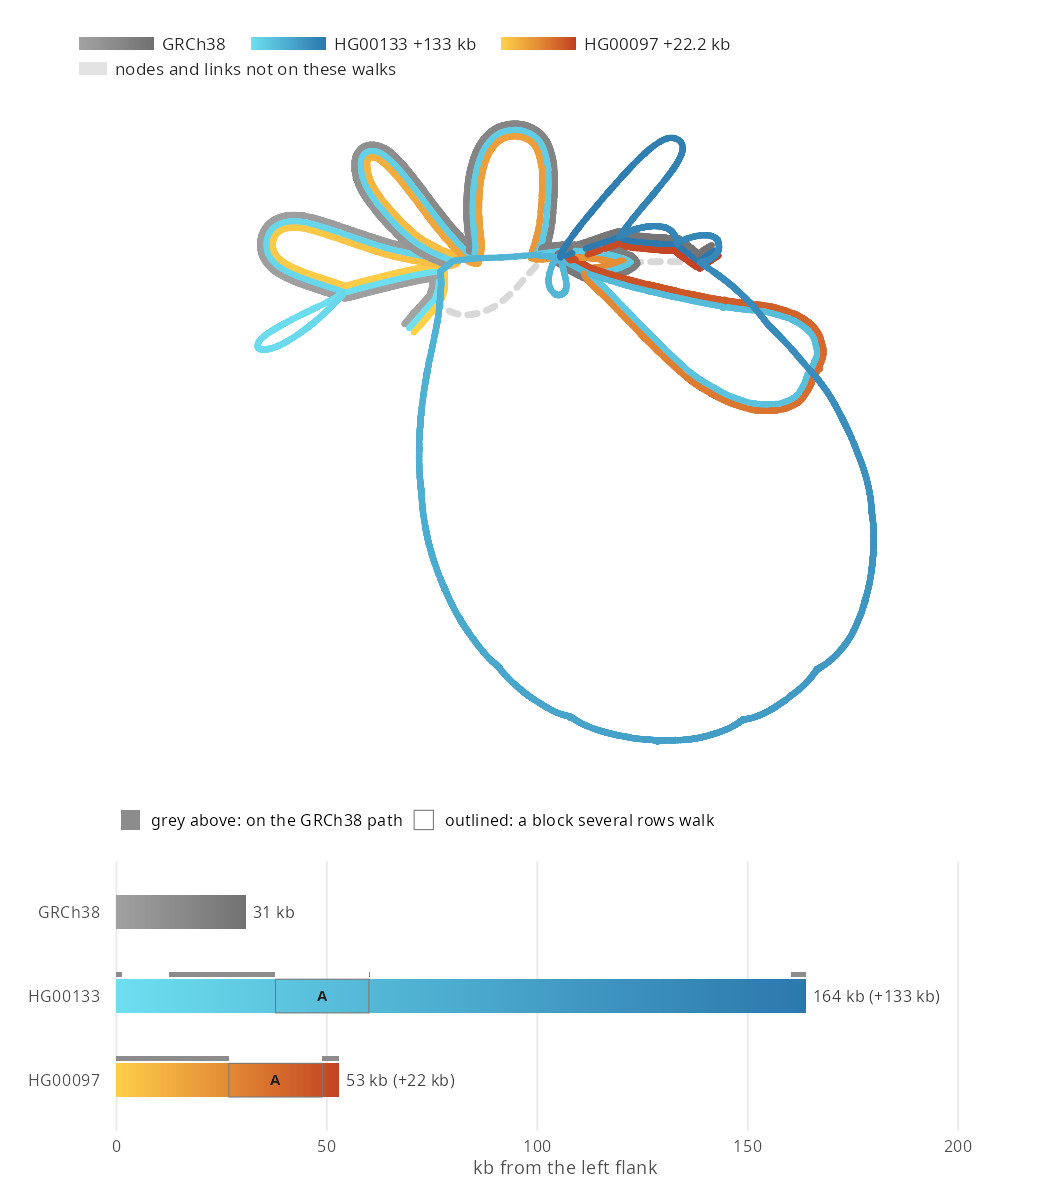
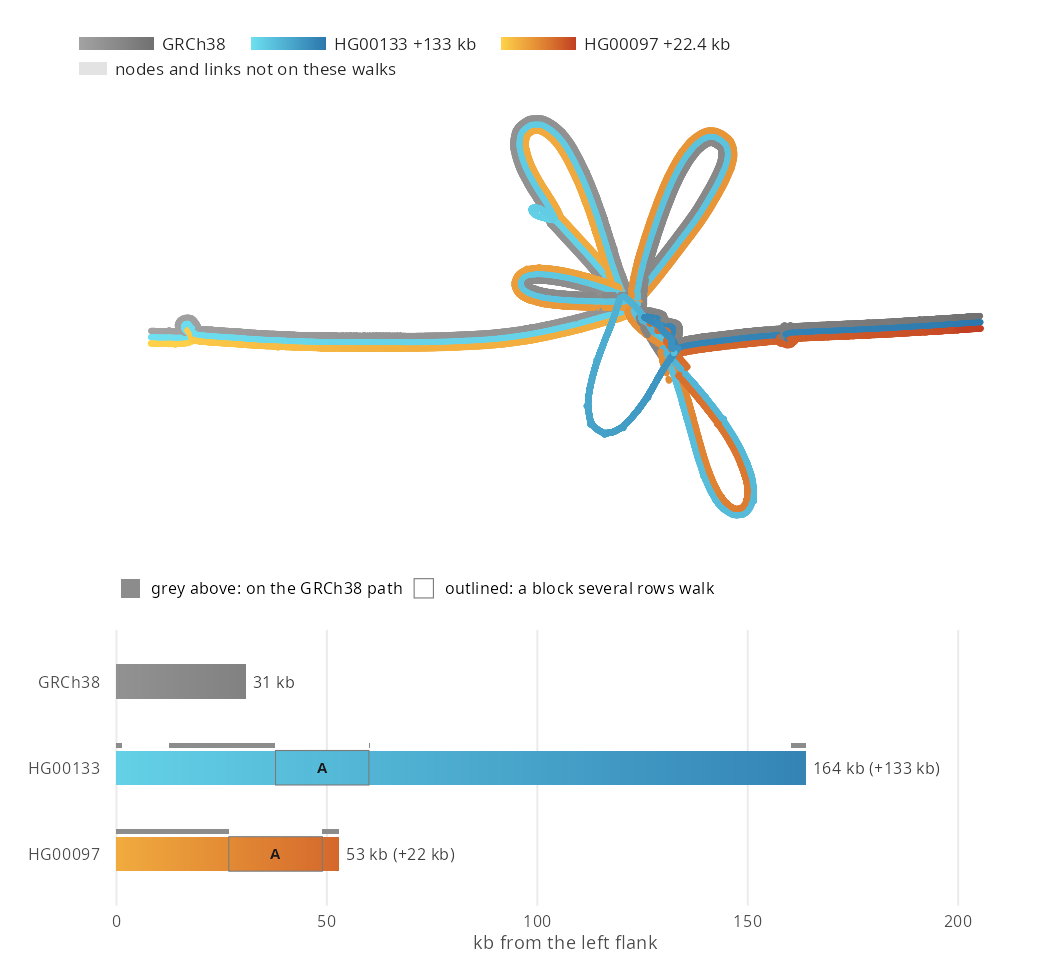
Draw kiv2_overlay with 30 kb flanks and compressed node lengths
The 1 kb default flank left GRCh38 a stub, so the figure didn't show where
straight reference meets the array, and HG00133's 133 kb of extra copies
drew as one loop filling most of the panel. context = 30000 and
bubbleSpread = "compress" fix both; the walk rows still carry the lengths.

Document bubbleSpread in bandage_layout() and both arguments in the
layout-options vignette.

diff --git a/README.md b/README.md
@@ -78,7 +78,7 @@ kinds of index, exporting a region as GFA, and building a region's syng graph.
 <!-- gallery -->
 <table>
 <tr><td width="25%"><a href="docs/gallery.md#cfhr3-and-cfhr1-deleted-in-one-haplotype"><img src="gallery/cfh_overlay.png" alt="Force-directed CFH locus with GRCh38, HG00097 and HG02055 lifted together, each shaded along its own length: GRCh38 grey, HG00097 cyan to blue and HG02055 pink to plum. GRCh38 and HG00097 run the loop through CFHR3 and CFHR1, and HG02055 alone takes the dashed deletion edge under it. Walk rows below, each on its walk's ramp, give the lengths, GRCh38 and HG00097 260 kb and HG02055 176 kb, and the ribbons from HG00097 down to HG02055 break across the 85 kb HG02055 lacks" width="100%"></a><br>CFHR3 and CFHR1 deleted in one haplotype</td><td width="25%"><a href="docs/gallery.md#kiv-2-copy-number-as-walk-rows"><img src="gallery/kiv2_rows.png" alt="Walk rows at KIV-2 on a bp-from-flank axis: between the flanking reference nodes GRCh38 spans 31 kb and HG00133#2 164 kb, and the extra copies, on non-reference nodes, fall into three blocks: A, 68 kb walked by HG02055#1 and HG00133#2; B, 22 kb walked by four haplotypes; and C, 5.5 kb walked by two" width="100%"></a><br>KIV-2 copy number as walk rows</td><td width="25%"><a href="docs/gallery.md#amylase-haplotypes-from-146-to-475-kb"><img src="gallery/amylase_rows.png" alt="Walk rows over the salivary amylase genes for GRCh38 and seven haplotypes, each bar coloured by the GRCh38 position it covers: against GRCh38's 240 kb the haplotypes span 146 kb to 475 kb. HG00128#1 and HG002#1 walk the non-reference block A twice, CHM13 and HG00097#2 once, HG00099#1 and HG00097#1 walk block C in its place, and HG00097#1 has a 19 kb stretch the graph lacks, drawn as an open box" width="100%"></a><br>Amylase haplotypes from 146 to 475 kb</td><td width="25%"><a href="docs/gallery.md#cyp2d6-deletion-as-an-arch-over-the-gene"><img src="gallery/cyp2d6_stress.png" alt="Stress layout of CYP2D6 from the hosted index, GRCh38 drawn straight and coloured by position from NDUFA6-DT to CYP2D7, exons outlined in gold: a dashed arch spans CYP2D6, the route of haplotypes that skip the gene, and non-reference sequence hangs in charcoal loops above and below" width="100%"></a><br>CYP2D6 deletion as an arch over the gene</td></tr>
-<tr><td width="25%"><a href="docs/gallery.md#kiv-2-expansions-as-extra-loops"><img src="gallery/kiv2_overlay.png" alt="Force-directed KIV-2 array with GRCh38, HG00133 and HG00097 lifted together, each shaded along its own length from light to mid-tone: GRCh38 grey, HG00133 cyan to blue, 133 kb longer, and HG00097 yellow to red-orange, 22.2 kb longer. Where walks share nodes their lanes run side by side. HG00133 and HG00097 run the loop at the right together, and HG00133 alone runs the large loop below and the loops at the top right and left. Walk rows below, each on its walk's ramp under a grey strip where it runs on the GRCh38 path, give the lengths: GRCh38 31 kb, HG00133 164 kb and HG00097 53 kb, with the right loop outlined as block A in both" width="100%"></a><br>KIV-2 expansions as extra loops</td><td width="25%"><a href="docs/gallery.md#c4-copies-as-threads-round-an-impg-syng-graph"><img src="gallery/syng_overlay.png" alt="The syng graph of C4 with three walks lifted together, each shaded light to dark along its own length, grch38#chr6 grey, HG01978#2 cyan to blue and HG01952#1 peach to rust, and a thread for every pass through a node: round the ring, outside in, grch38#chr6 draws two threads, HG01978#2 three, its extra C4 copy, and HG01952#1 two, each pass darker than the one before. Grey and blue threads run round the HERV-K loop at the left, and the orange ones cut across it. Walk rows below, each on its walk's ramp under a grey strip where it runs on the grch38 path, give the lengths: grch38#chr6 84 kb, HG01978#2 116 kb and HG01952#1 71 kb" width="100%"></a><br>C4 copies as threads round an impg syng graph</td><td width="25%"><a href="docs/gallery.md#rhd-deletion-and-duplication-in-an-impg-syng-graph"><img src="gallery/syng_rhd.png" alt="Force-directed syng graph of RHD from 19 HPRC haplotypes with three walks lifted together, each shaded light to dark along its own length, grch38 grey, HG01106#1 cyan to blue and HG01258#2 peach to rust, and a thread for every pass through a node. Through the Rhesus box at the left, grch38 draws two threads, HG01106#1 three and HG01258#2 one, each pass darker than the one before. Round the loop at the top, labelled RHD, grch38 draws one thread, HG01106#1 two, its second RHD, and HG01258#2 none, taking the box straight on to the loop below, labelled TMEM50A and RHCE, that every walk runs once. In the walk rows below, each on its walk's ramp under a grey strip where it runs on the grch38 path, grch38 spans 202 kb, HG01106#1 272 kb and HG01258#2 132 kb" width="100%"></a><br>RHD deletion and duplication in an impg syng graph</td><td width="25%"><a href="docs/gallery.md#your-own-colours-kiv-2-by-haplotypes-per-node"><img src="gallery/own_colours.png" alt="The KIV-2 array cut from the walk file, force-directed and drawn with plain ggplot2 layers: grey edges, and each node coloured and sized by how many of the six haplotypes, GRCh38 and the five named, run through it, from a thin pale line for one to a thick dark line for all six" width="100%"></a><br>Your own colours: KIV-2 by haplotypes per node</td></tr>
+<tr><td width="25%"><a href="docs/gallery.md#kiv-2-expansions-as-extra-loops"><img src="gallery/kiv2_overlay.png" alt="Force-directed KIV-2 array with GRCh38, HG00133 and HG00097 lifted together, each shaded along its own length from light to mid-tone: GRCh38 grey, HG00133 cyan to blue, 133 kb longer, and HG00097 yellow to red-orange, 22.4 kb longer. GRCh38 runs straight in along 30 kb of flank from either side to a knot of loops at the array. Where walks share nodes their lanes run side by side. All three walks run the loops at the top, HG00133 and HG00097 run the loop at the lower right together, and HG00133 alone runs the loop at the lower left. Walk rows below, each on its walk's ramp under a grey strip where it runs on the GRCh38 path, give the lengths: GRCh38 31 kb, HG00133 164 kb and HG00097 53 kb, with the lower right loop outlined as block A in both" width="100%"></a><br>KIV-2 expansions as extra loops</td><td width="25%"><a href="docs/gallery.md#c4-copies-as-threads-round-an-impg-syng-graph"><img src="gallery/syng_overlay.png" alt="The syng graph of C4 with three walks lifted together, each shaded light to dark along its own length, grch38#chr6 grey, HG01978#2 cyan to blue and HG01952#1 peach to rust, and a thread for every pass through a node: round the ring, outside in, grch38#chr6 draws two threads, HG01978#2 three, its extra C4 copy, and HG01952#1 two, each pass darker than the one before. Grey and blue threads run round the HERV-K loop at the left, and the orange ones cut across it. Walk rows below, each on its walk's ramp under a grey strip where it runs on the grch38 path, give the lengths: grch38#chr6 84 kb, HG01978#2 116 kb and HG01952#1 71 kb" width="100%"></a><br>C4 copies as threads round an impg syng graph</td><td width="25%"><a href="docs/gallery.md#rhd-deletion-and-duplication-in-an-impg-syng-graph"><img src="gallery/syng_rhd.png" alt="Force-directed syng graph of RHD from 19 HPRC haplotypes with three walks lifted together, each shaded light to dark along its own length, grch38 grey, HG01106#1 cyan to blue and HG01258#2 peach to rust, and a thread for every pass through a node. Through the Rhesus box at the left, grch38 draws two threads, HG01106#1 three and HG01258#2 one, each pass darker than the one before. Round the loop at the top, labelled RHD, grch38 draws one thread, HG01106#1 two, its second RHD, and HG01258#2 none, taking the box straight on to the loop below, labelled TMEM50A and RHCE, that every walk runs once. In the walk rows below, each on its walk's ramp under a grey strip where it runs on the grch38 path, grch38 spans 202 kb, HG01106#1 272 kb and HG01258#2 132 kb" width="100%"></a><br>RHD deletion and duplication in an impg syng graph</td><td width="25%"><a href="docs/gallery.md#your-own-colours-kiv-2-by-haplotypes-per-node"><img src="gallery/own_colours.png" alt="The KIV-2 array cut from the walk file, force-directed and drawn with plain ggplot2 layers: grey edges, and each node coloured and sized by how many of the six haplotypes, GRCh38 and the five named, run through it, from a thin pale line for one to a thick dark line for all six" width="100%"></a><br>Your own colours: KIV-2 by haplotypes per node</td></tr>
 </table>
 <!-- /gallery -->
 

diff --git a/docs/gallery.md b/docs/gallery.md
@@ -92,7 +92,13 @@ autoplot(g)
 
 `chr6:160,616,004-160,646,753`
 
-![Force-directed KIV-2 array with GRCh38, HG00133 and HG00097 lifted together, each shaded along its own length from light to mid-tone: GRCh38 grey, HG00133 cyan to blue, 133 kb longer, and HG00097 yellow to red-orange, 22.2 kb longer. Where walks share nodes their lanes run side by side. HG00133 and HG00097 run the loop at the right together, and HG00133 alone runs the large loop below and the loops at the top right and left. Walk rows below, each on its walk's ramp under a grey strip where it runs on the GRCh38 path, give the lengths: GRCh38 31 kb, HG00133 164 kb and HG00097 53 kb, with the right loop outlined as block A in both](../gallery/kiv2_overlay.png)
+- `context = 30000` keeps 30 kb of GRCh38 past each end of the region, so the
+  reference runs in straight before it reaches the array
+- `bubbleSpread = "compress"` pulls node lengths towards the mean, so HG00133's
+  extra copies no longer dwarf the rest. Loop size stops tracking bp, so read
+  lengths off the walk rows below
+
+![Force-directed KIV-2 array with GRCh38, HG00133 and HG00097 lifted together, each shaded along its own length from light to mid-tone: GRCh38 grey, HG00133 cyan to blue, 133 kb longer, and HG00097 yellow to red-orange, 22.4 kb longer. GRCh38 runs straight in along 30 kb of flank from either side to a knot of loops at the array. Where walks share nodes their lanes run side by side. All three walks run the loops at the top, HG00133 and HG00097 run the loop at the lower right together, and HG00133 alone runs the loop at the lower left. Walk rows below, each on its walk's ramp under a grey strip where it runs on the GRCh38 path, give the lengths: GRCh38 31 kb, HG00133 164 kb and HG00097 53 kb, with the lower right loop outlined as block A in both](../gallery/kiv2_overlay.png)
 
 ```r
 library(ggbandage)
@@ -103,9 +109,9 @@ kiv2 <- "chr6:160,616,004-160,646,753"
 
 haps <- c("HG00133#2", "HG00097#1")
 progress <- lapply(c("GRCh38", haps), function(w) list(walk = w, color = list(field = "progress")))
-g <- bandage_layout(walks, region = kiv2, haplotypes = haps, walks = progress)
+g <- bandage_layout(walks, region = kiv2, haplotypes = haps, walks = progress, context = 30000, bubbleSpread = "compress")
 rows <- bandage_walk_rows(walks, kiv2, haplotypes = haps)
-autoplot(g) / autoplot(rows, ribbons = FALSE, hues = "walk", layout = g) + plot_layout(heights = c(2.5, 1))
+autoplot(g) / autoplot(rows, ribbons = FALSE, hues = "walk", layout = g) + plot_layout(heights = c(1.6, 1))
 ```
 
 ## C4 copies as threads round an impg syng graph
